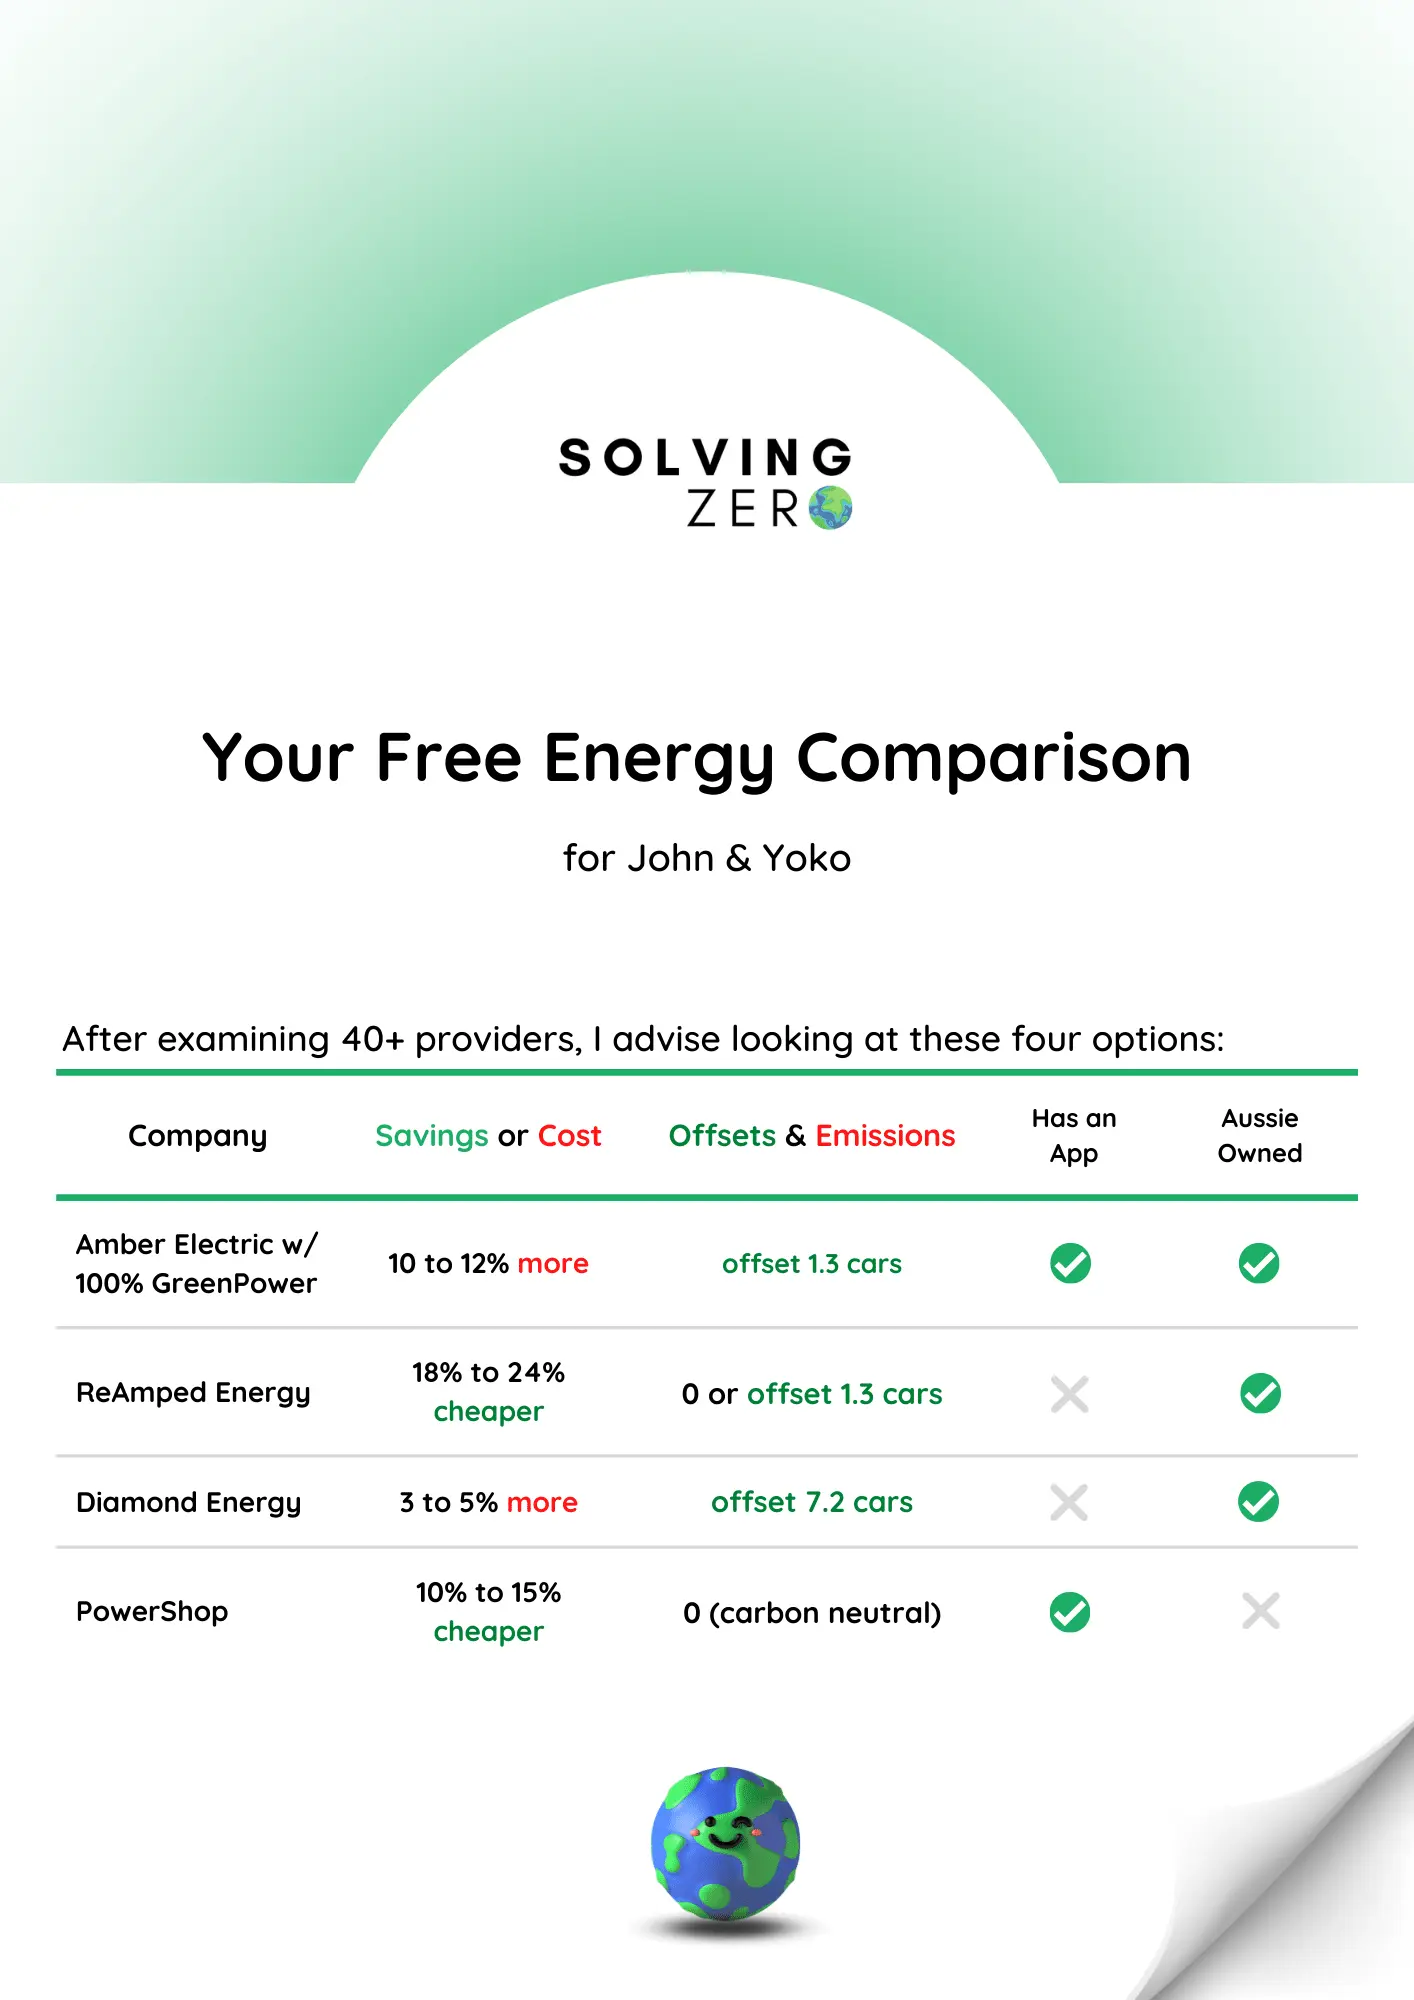
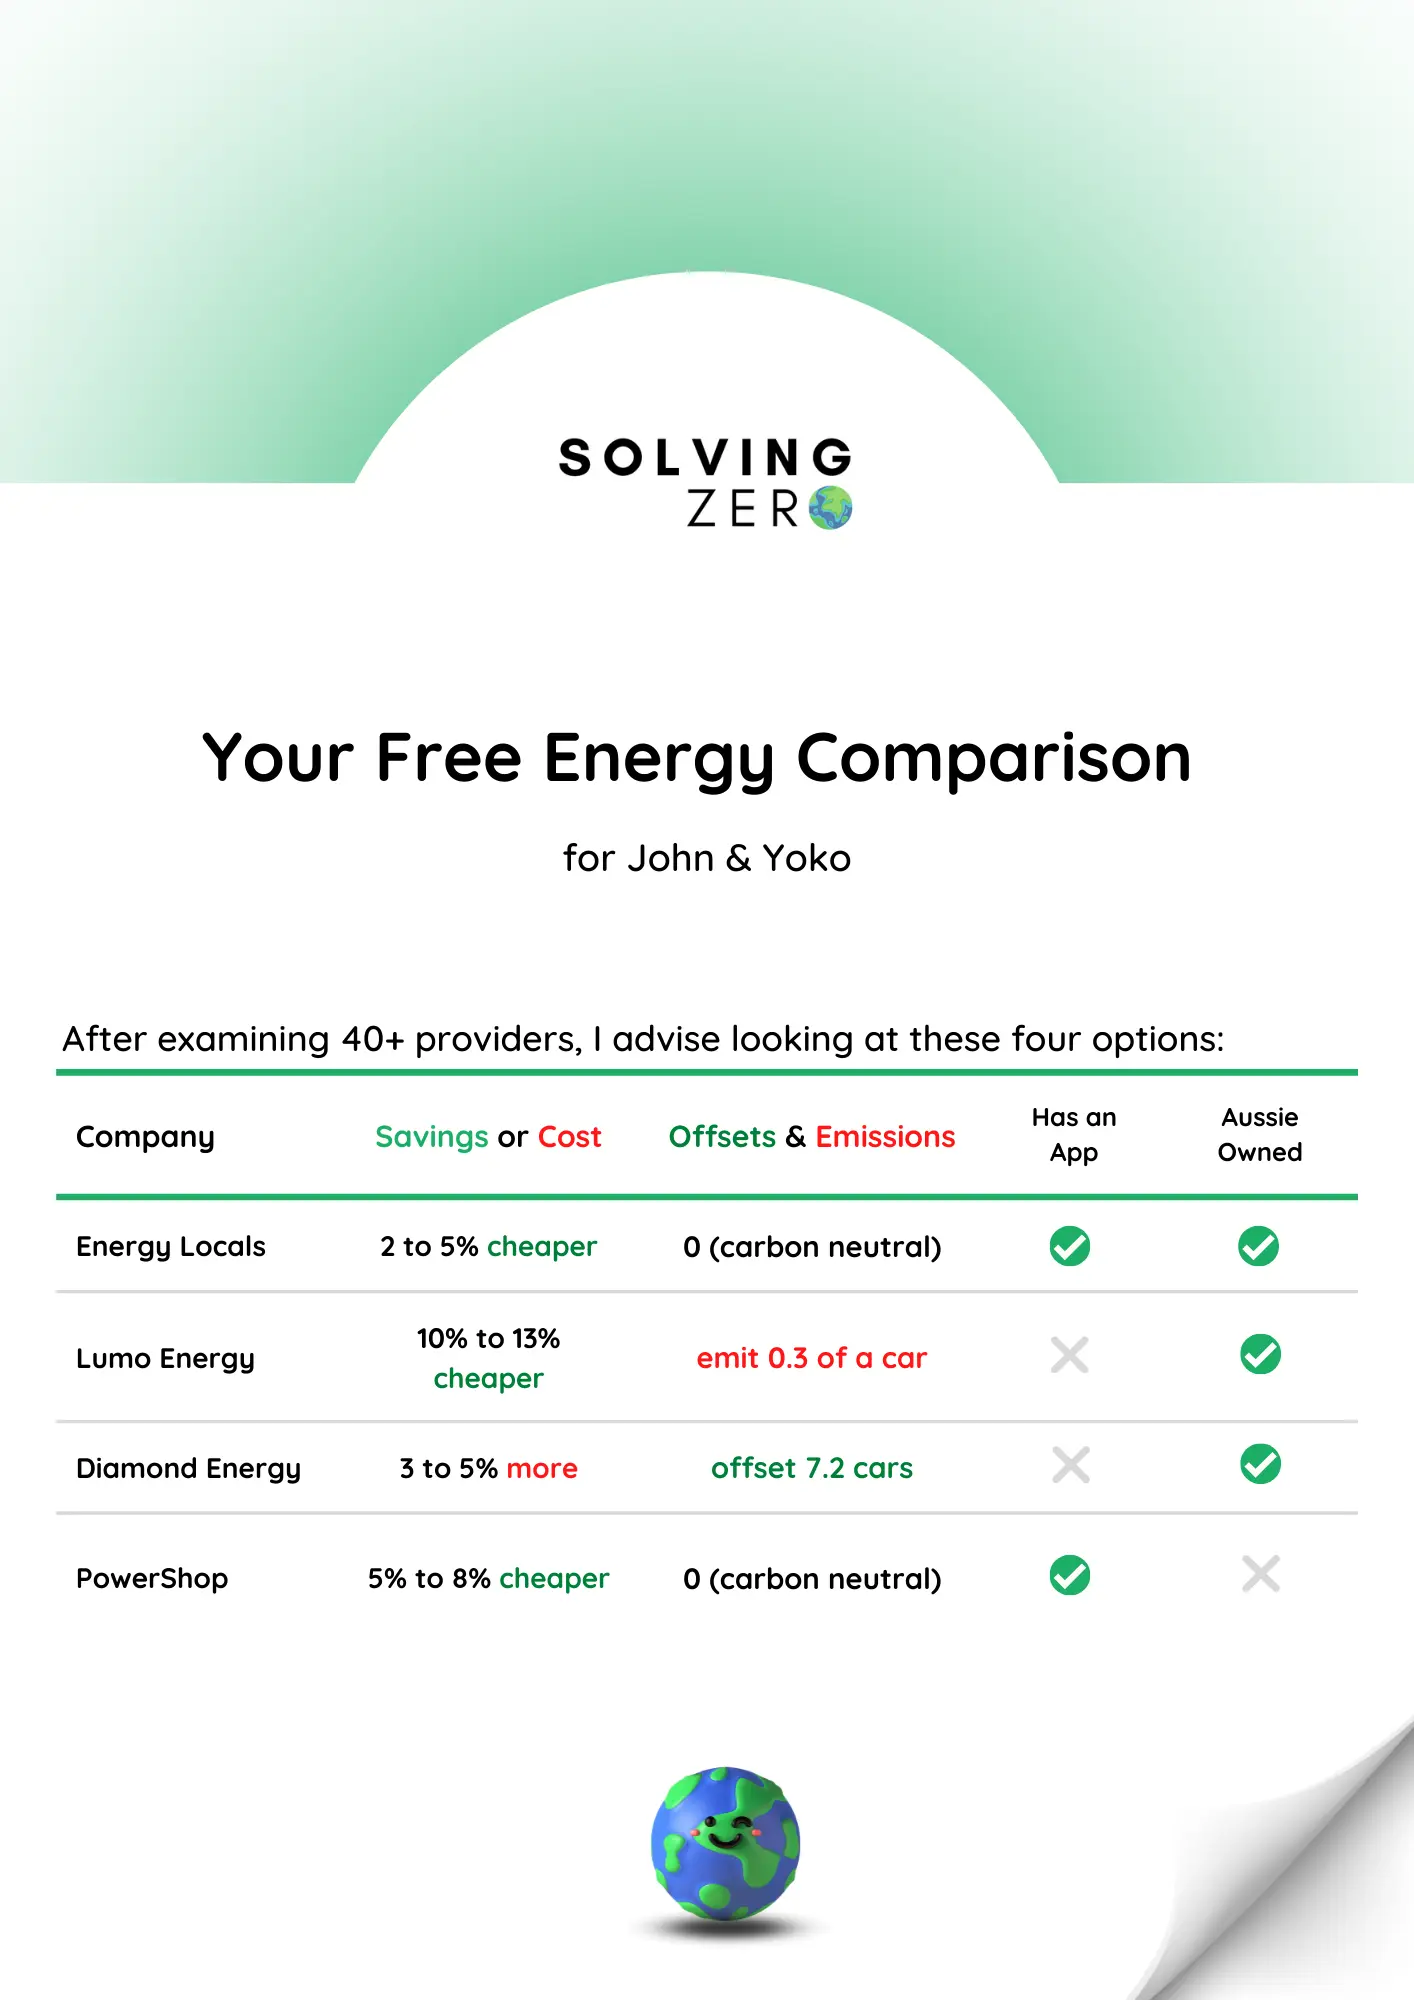
SEO changes

diff --git a/index.html b/index.html
@@ -51,17 +51,14 @@
             </span>
           </button>
           <ul id="nav-list">
-            <!-- <li>
-              <a href="blog/index.html">Blog</a>
-            </li> -->
             <li>
-              <a href="energy-retailer-list/index.html">Energy Retailer Ranking</a>
+              <a href="compare-electricity-providers/index.html">Compare Energy Providers</a>
+            </li>
+            <li>
+              <a href="green-energy.html">Green Energy Guide</a>
             </li>
             <li>
               <a href="data/index.html">Our Data</a>
-            </li>
-            <li>
-              <a href="contact/index.html">Contact</a>
             </li>
           </ul>
         </nav>
@@ -105,13 +102,7 @@
                 <img class="checkMark" src= "images/checkmark.webp">
                 <li>
                   <div class="block">
-                    <p>Affordable energy with big savings</p>
-                  </div>
-                </li>
-                <img class="checkMark" src= "images/checkmark.webp">
-                <li>
-                  <div class="block">
-                    <p>Green energy without costing more</p>
+                    <p>Affordable green energy with big savings</p>
                   </div>
                 </li>
                 <img class="checkMark" src= "images/checkmark.webp">
@@ -143,19 +134,13 @@
                 <img class="checkMarkData" src= "images/checkmark.webp">
                 <li>
                   <div class="block2">
-                    <p>Quoted estimate on monthly and yearly savings</p>
-                  </div>
-                </li>
-                <img class="checkMarkData" src= "images/checkmark.webp">
-                <li>
-                  <div class="block2">
                     <p>Green energy without costing more</p>
                   </div>
                 </li>
                 <img class="checkMarkData" src= "images/checkmark.webp">
                 <li>
                   <div class="block2">
-                    <p><a href="energy-retailer-list/index.html">Every provider in Australia</a> is considered</p>
+                    <p><a href="compare-electricity-providers/index.html">Every provider in Australia</a> is considered</p>
                   </div>
                 </li>
               </div>
@@ -416,7 +401,32 @@
               </p>
             </div>
             <div class = "retailer" id="reAmped" name="company" data-rank="4" data-green="3.5" data-price="4.5" data-trust="3.5">
-              <h3 class= "company">ReAmped Energy</h3>
+              <h3 class= "company">Momentum Energy</h3>
+              <div class = "green-stars">
+                <img src= "images/star.webp">
+                <img src= "images/star.webp">
+                <img src= "images/star.webp">
+                <img src= "images/star.webp">
+                <img src= "images/empty-star.webp">
+              </div>
+              <div class = "price-coins">
+                <img src= "images/coin.webp">
+                <img src= "images/coin.webp">
+                <img src= "images/coin.webp">
+                <img src= "images/empty-coin.webp">
+                <img src= "images/empty-coin.webp">
+              </div>
+            </div>
+            <div class="hide">
+              <p>
+                Owned by the largest renewable generator in Aus, Snowy Hydro. Its unfortunate they don't offer carbon neutral plans.
+                <br>
+                <br>
+                On the one hand you would be supporting active operation of renewable facilities in Tassie, on the other hand they also own fossil gas facilities, don't offer very competitive pricing, and charge a lot for GreenPower energy.
+              </p>
+            </div>
+            <div class = "retailer" id="amber" name="company" data-rank="4" data-green="4" data-price="1.5" data-trust="4">
+              <h3 class= "company">PowerShop</h3>
               <div class = "green-stars">
                 <img src= "images/star.webp">
                 <img src= "images/star.webp">
@@ -429,40 +439,15 @@
                 <img src= "images/coin.webp">
                 <img src= "images/coin.webp">
                 <img src= "images/coin.webp">
-                <img src= "images/half-coin.webp">
-              </div>
-            </div>
-            <div class="hide">
-              <p>
-                If you're on a budget this is the provider for you.
-                <br>
-                <br>
-                Rated by the ESC as one of the most affordable retailers by median pricing, also every plan with this energy provider is carbon neutral. ReAmped Energy also offers some of the best pricing for GreenPower and solar tariffs, overall this is the best provider for solar owners.  
-                </p>
-            </div>
-            <div class = "retailer" id="amber" name="company" data-rank="4" data-green="4" data-price="1.5" data-trust="4">
-              <h3 class= "company">Amber Electric</h3>
-              <div class = "green-stars">
-                <img src= "images/star.webp">
-                <img src= "images/star.webp">
-                <img src= "images/star.webp">
-                <img src= "images/star.webp">
-                <img src= "images/empty-star.webp">
-              </div>
-              <div class = "price-coins">
-                <img src= "images/coin.webp">
-                <img src= "images/coin.webp">
-                <img src= "images/half-coin.webp">
-                <img src= "images/empty-coin.webp">
                 <img src= "images/empty-coin.webp">
               </div>
             </div>
             <div class="hide">
               <p>
-                A tech-focused retailer with a great app that provides customers updates every 30 minutes through their app about energy prices. 
+                Sold out to Royal Dutch Shell but they are still offering carbon neutral plans and at pretty affordable rates.
                 <br>
                 <br>
-                The ESC ranks Amber Electric as one of the most expensive retailers when looking at median pricing but this could be because they have a unique pricing model. 
+                When they were bought out they sold all of their renewable power stations to another company but they still buy back a lot of that same energy. Overall still pretty green and affordable despite the buyout by Shell.
               </p>
             </div>
             <h2 class="dirtyListHeaders">Avoid the dirtiest energy providers in Australia and save your money

diff --git a/blog.html b/blog.html
@@ -1,0 +1,100 @@
+<html>
+<head>
+  <style>
+    @import url('https://fonts.googleapis.com/css2?family=Poppins&family=Quicksand:wght@400;500;600;700&display=swap');
+  </style>
+  <meta charset="UTF-8">
+  <meta name="viewport" content="width=device-width, initial-scale=1.0">
+  <title>Solving Zero Blog</title>
+  <link rel="stylesheet" type="text/css" href="styles/css/styles.css"  />
+</head>
+<body>
+  <div class="main-container">
+    <header class = "header-container">
+      <a href="blog.html" class ="logo"></a>  
+      <nav class = "nav-bar">
+        <button aria-expanded="false" aria-controls="nav-list">
+          <a href="index.html" class="close">
+            &#88;
+          </a>
+          <span class="open">
+            &#9776;
+          </span>
+        </button>
+        <ul id="nav-list">
+          <li>
+            <a href="index.html">Home</a>
+          </li>
+          <li>
+            <a href="about/index.html">About</a>
+          </li>
+          <li>
+            <a href="contact/index.html">Contact</a>
+          </li>
+        </ul>
+      </nav>
+    </header>
+    <main class = "articles">
+      <div class ="article">
+        <a href="article/how-does-solar-work/index.html">
+          <img class = "article_pic" src="images/solar-farm.jpeg">
+        </a>
+        <div class ="article_information">
+          <h2>How does a Solar Panel work?</h2>
+          <p class="article_description">A solar panel consists of solar cells that convert the energy of photons sent by the sun into excited electrons via a semiconductor material, commonly doped silicon. These excited electrons create an electrical current that can be harnessed and converted for use as electricity.</p>
+        </div>
+      </div>
+      <div class ="article">
+        <img class = "article_pic" src="images/carbon.jpeg">
+        <div class ="article_information">
+          <h2>What is carbon capture?</h2>
+          <p class="article_description">Lorem ipsum dolor sit amet consectetur adipisicing elit. Rem, rerum quibusdam quaerat voluptate alias distinctio culpa ea inventore sequi recusandae et tempore commodi, doloribus ad amet nam aperiam exercitationem sit.</p>
+        </div>
+      </div>
+      <div class ="article">
+        <img class = "article_pic" src="images/carbon-capture.jpeg">
+        <div class ="article_information">
+          <h2>Lorem ipsum dolor</h2>
+          <p class="article_description">Lorem ipsum dolor sit amet consectetur adipisicing elit. Rem, rerum quibusdam quaerat voluptate alias distinctio culpa ea inventore sequi recusandae et tempore commodi, doloribus ad amet nam aperiam exercitationem sit.</p>
+        </div>
+      </div>
+
+    </main>
+      <footer>
+        Footer
+      </footer>
+  </div>
+  <style>
+    .articles {
+      display : grid;
+      grid-template-columns: repeat(auto-fit, minmax(400px, 1fr));
+      /* justify-content: center; */
+    }
+    
+    .article{
+      background: rgba(255, 255, 255, 0.2);
+      box-shadow: 0 0 5px rgba(0, 0, 0, 0.1);
+      padding: 20px;
+      display: grid;
+      grid-template-columns: 150px, 1fr;
+      grid-gap: 10px;
+      align-items: center;
+    }
+
+    .article_pic {
+      width: 100%;
+      max-height: 220px;
+    }
+
+    @media (max-width: 320px) {
+      .articles {
+        grid-template-columns: 1fr;
+      }
+    }
+
+  </style>
+<script type="text/javascript" src="script.js"></script>
+
+</body>
+
+</html>

diff --git a/green-energy.html b/green-energy.html
@@ -1,0 +1,59 @@
+<html>
+<head>
+  <style>
+    @import url('https://fonts.googleapis.com/css2?family=Poppins&display=swap');
+  </style>
+  <meta charset="UTF-8">
+  <meta name="viewport" content="width=device-width, initial-scale=1.0">
+  <meta property="og:title" content="Green Energy - Find an affordable green provider">
+  <meta name="description" content="Save money and the planet by choosing an affordable green energy provider local to your area">
+  <title>Green Energy: Compare green energy providers | Solving Zero</title>
+  <link rel="stylesheet" type="text/css" href="styles/css/styles.css" />
+</head>
+<body>
+  <div class="main-container">
+    <header class = "header-container">
+      <a href="index.html" class ="logo"></a>  
+      <nav class = "nav-bar">
+        <button aria-expanded="false" aria-controls="nav-list">
+          <a href="index.html" class="close">
+            &#88;
+          </a>
+          <span class="open">
+            &#9776;
+          </span>
+        </button>
+        <ul id="nav-list">
+          <!-- <li>
+            <a href="index.html">Home</a>
+          </li> -->
+          <li>
+            <a href="compare-electricity-providers/index.html">Compare Energy Providers</a>
+          </li>
+          <li>
+            <a href="data/index.html">Our Data</a>
+          </li>
+        </ul>
+      </nav>
+    </header>
+    <article class = "post">
+      <h1>How to get green energy for your home or business today</h1>
+      <p>There is a huge list of energy providers out there that claim to be green or provide green energy, though as we have found over our research this isn't always the case.</p>
+      <p>Check out our <a href="/compare-electricity-provider/index.html">green electricity provider list</a> to find the best energy provider that suits your needs.</p>
+      <p>Depending on what state and even town you are in the prices of each energy provider can vary quite significantly. Don't throw darts in a dark room, make an informed decision on your electricity provider.</p>
+    </article>
+    <style>
+        .post {
+            display: grid;
+            max-width: 1000px;
+            margin: 200px auto;
+            margin-top: 20px;
+            grid-gap: 10px 50px;
+            grid-template-columns: 1fr 32fr 1fr;
+        }
+
+        .post > * {
+            grid-column: 2 / -2;
+        }
+    </style>
+    <script type="text/javascript" src="script.js"></script>

diff --git a/data/index.html b/data/index.html
@@ -35,11 +35,11 @@
         </button>
         <ul id="nav-list">
           <li>
-            <a href="../index.html">Home</a>
+            <a href="../index.html">Compare Energy Providers</a>
           </li>
-          <!-- <li>
-            <a href="../blog/index.html">Blog</a>
-          </li> -->
+          <li>
+            <a href="../green-energy.html">Green Energy Guide</a>
+          </li>
           <li>
             <a href="../contact/index.html">Contact</a>
           </li>

diff --git a/compare-electricity-providers/index.html b/compare-electricity-providers/index.html
@@ -51,13 +51,10 @@
           </button>
           <ul id="nav-list">
             <li>
-              <a href="../index.html">Home</a>
+              <a href="../green-energy.html">Green Energy Guide</a>
             </li>
             <li>
                 <a href="../data/index.html">Our Data</a>
-            </li>
-            <li>
-              <a href="../contact/index.html">Contact</a>
             </li>
           </ul>
         </nav>
